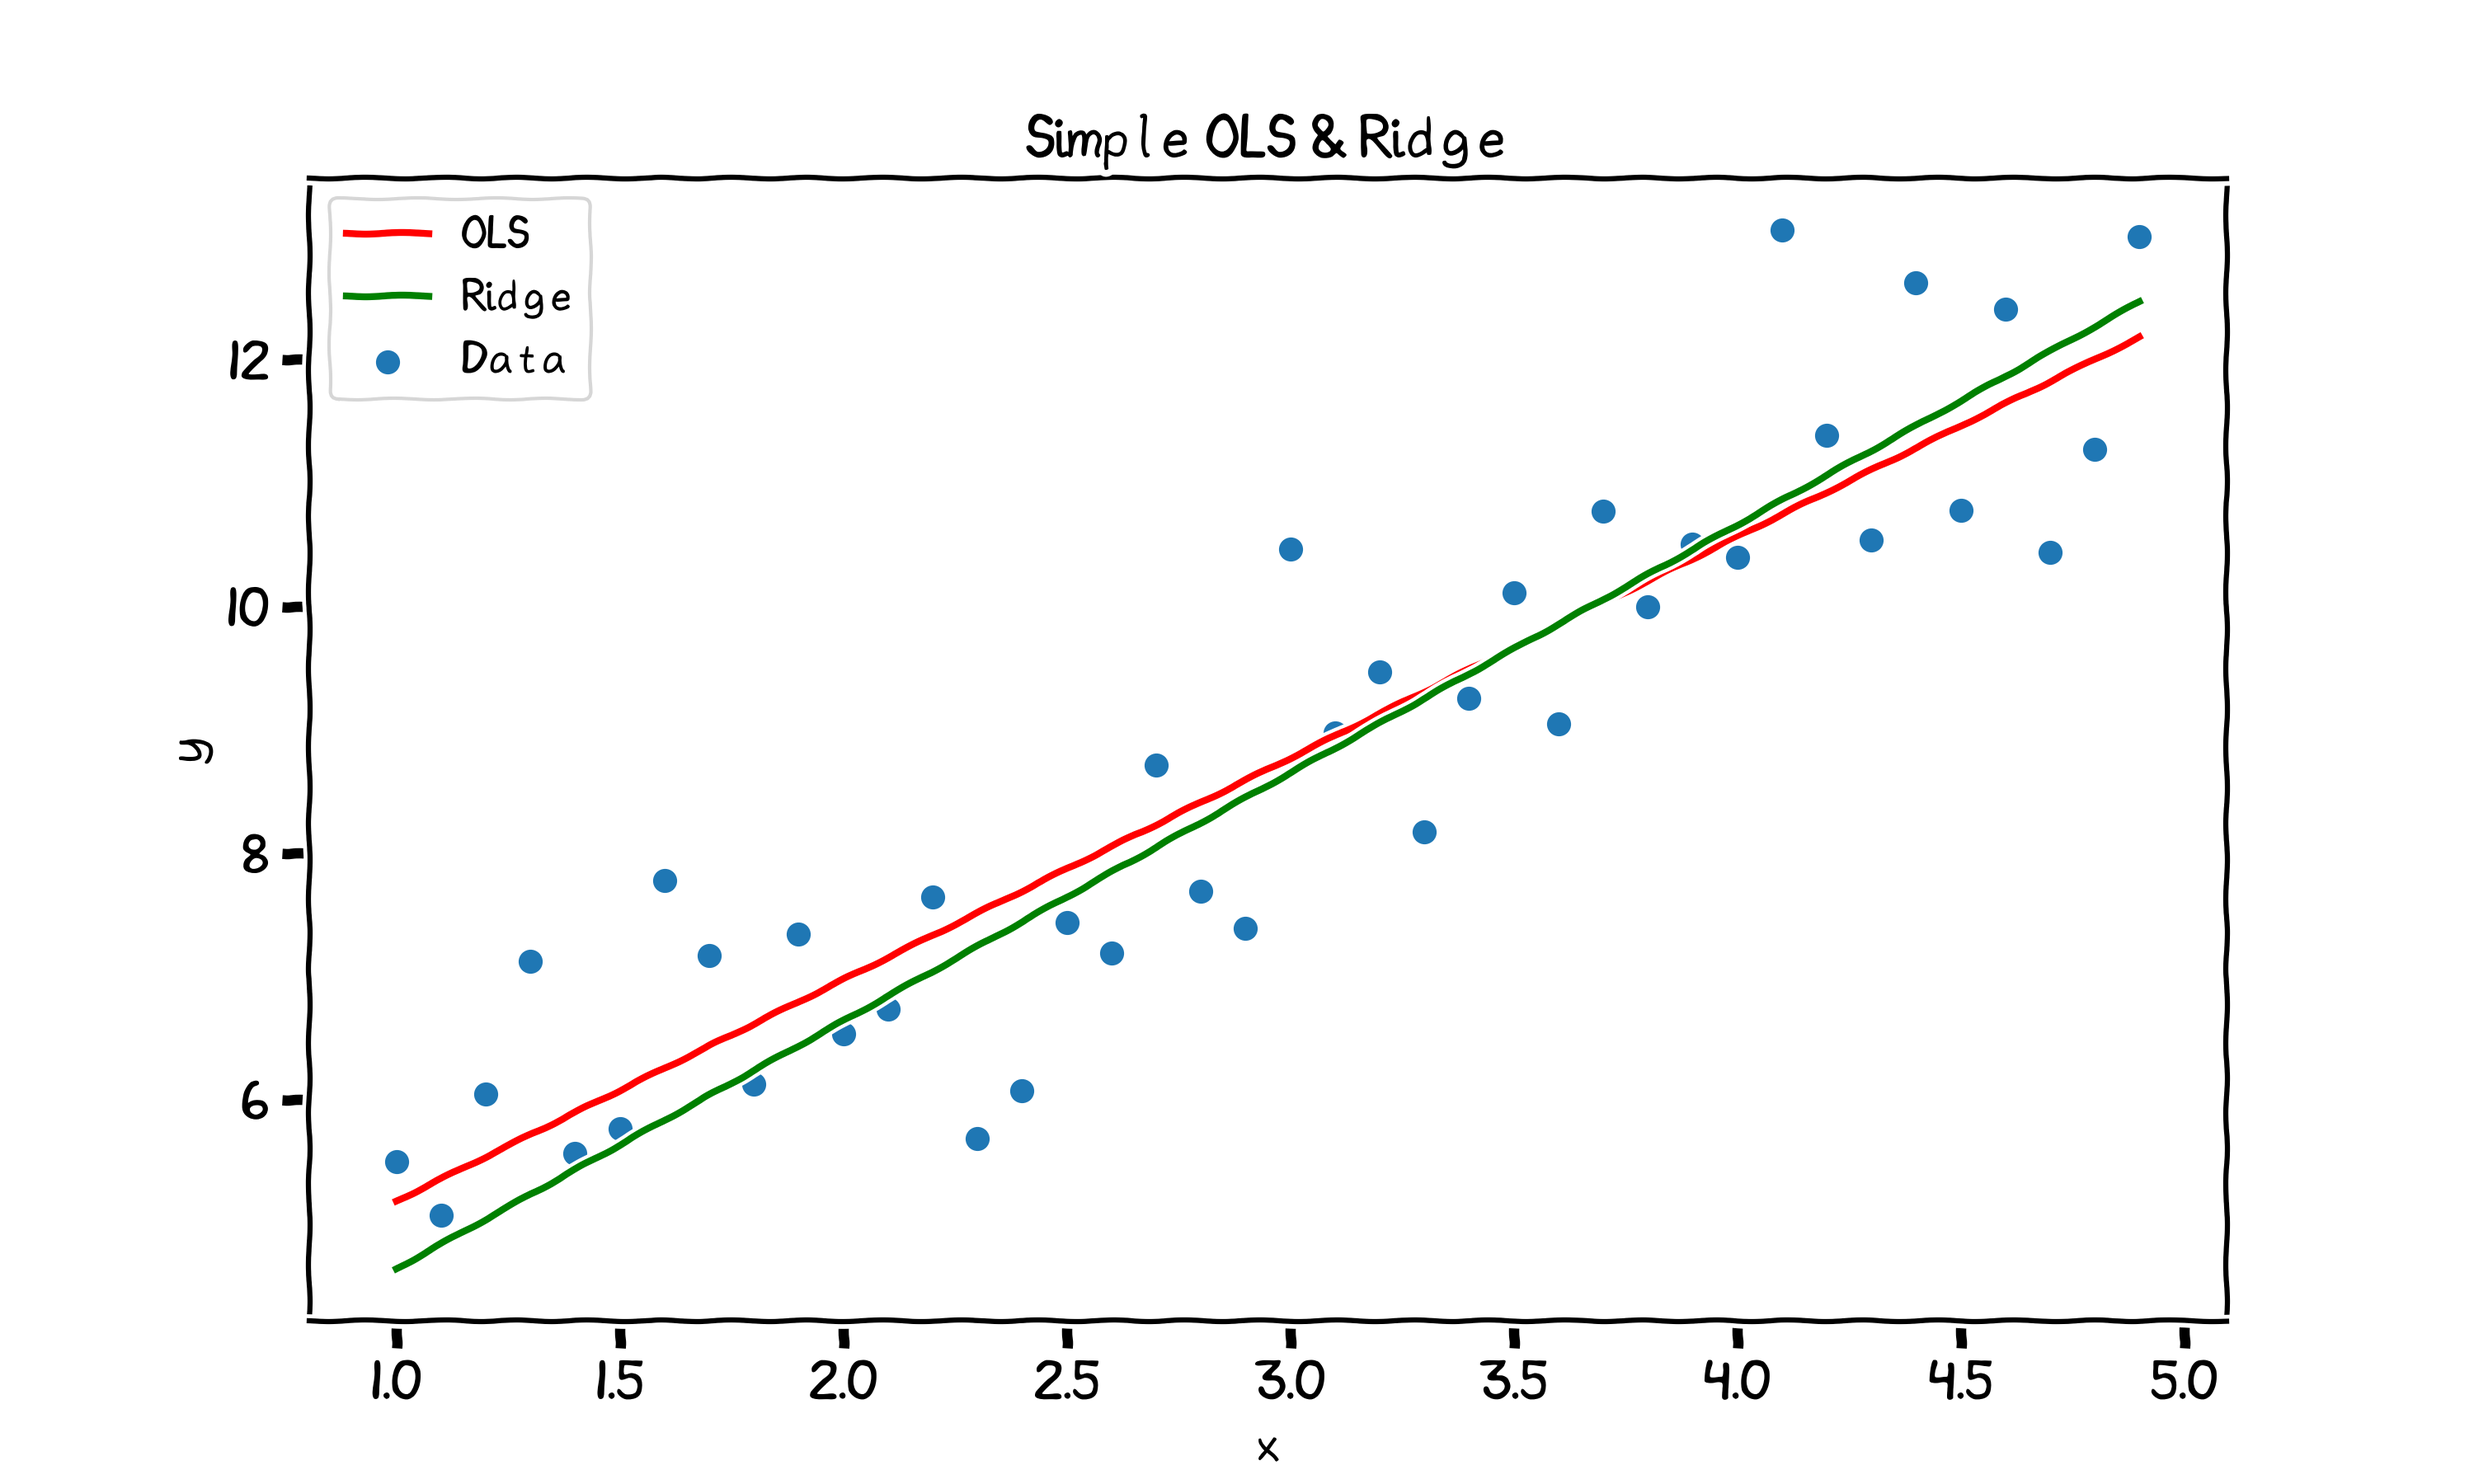
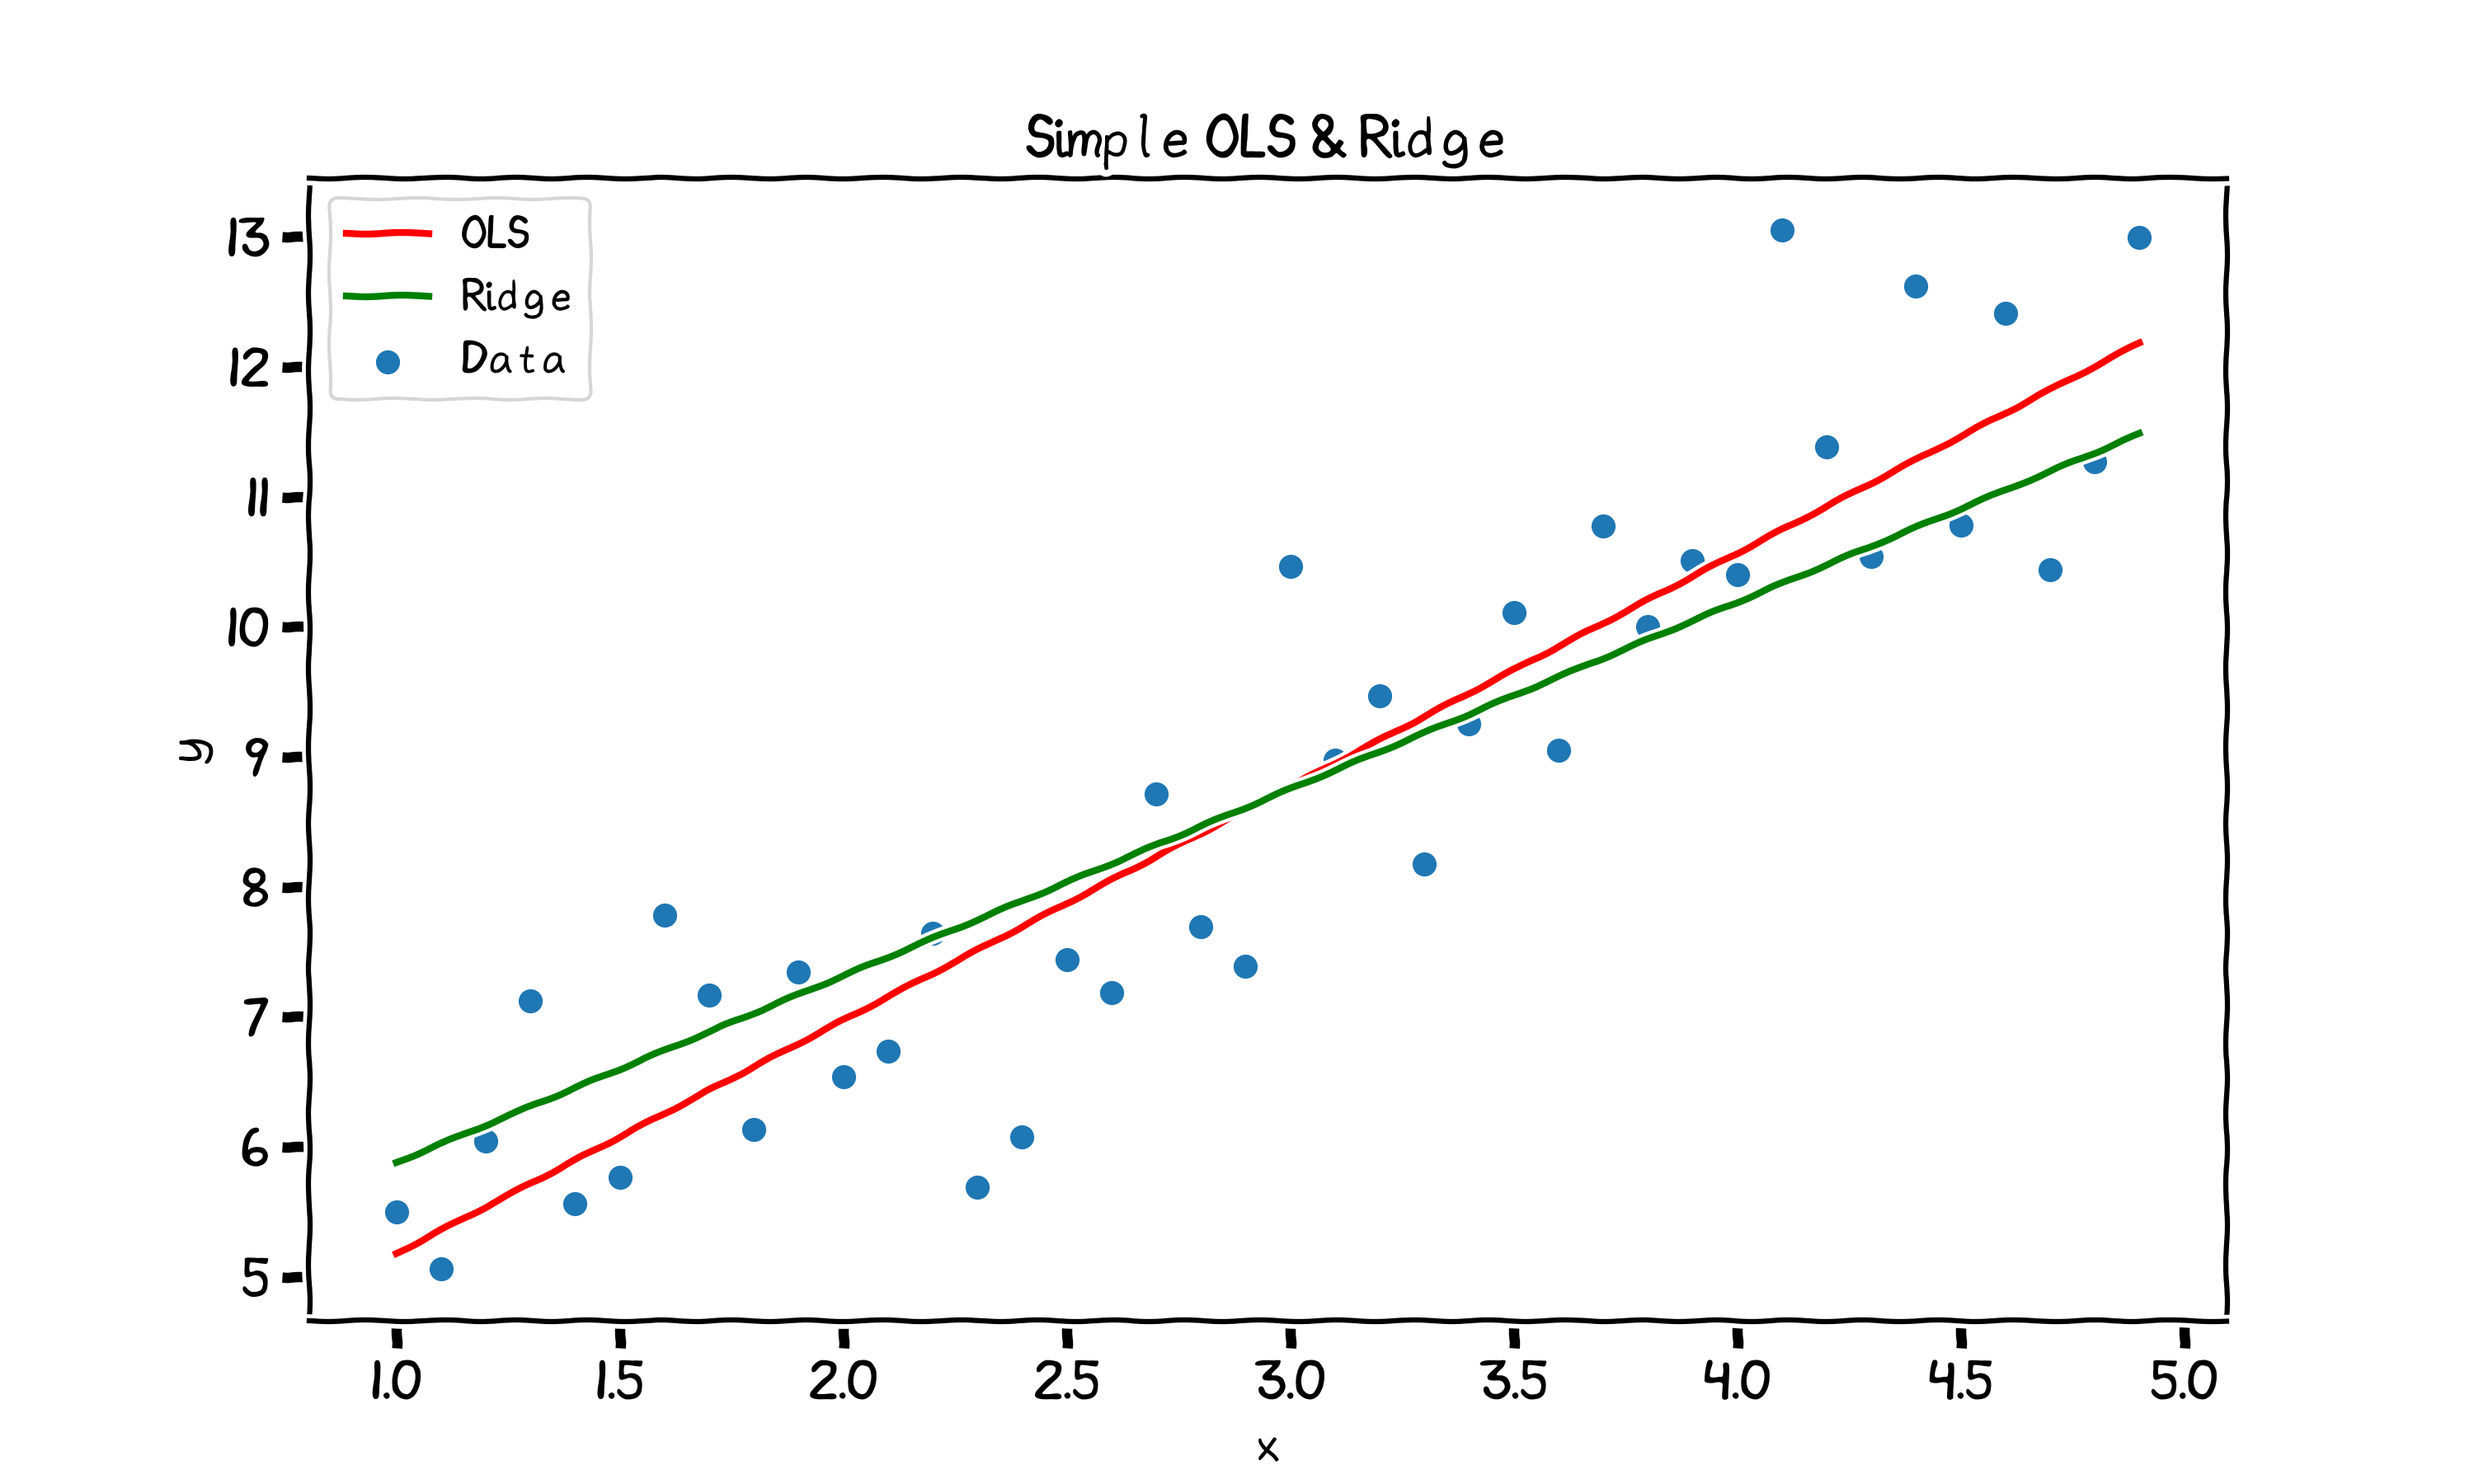
Python Ridge Complete

diff --git a/chap3/python/05_ridge.py b/chap3/python/05_ridge.py
@@ -15,14 +15,14 @@ def main():
     y = 2 * x + 3 + err
 
     X = np.matrix(x).T
-    X = sm.add_constant(X)
+    Xb = sm.add_constant(X)
     Y = np.matrix(y).T
 
-    ols = OLSEstimator(X, Y)
+    ols = OLSEstimator(Xb, Y)
     ols.estimate()
     ols.test()
 
-    ridge = OLSEstimator(X, Y, 2)
+    ridge = RidgeReg(X, Y, 10)
     ridge.estimate()
     ridge.test()
 
@@ -30,7 +30,8 @@ def main():
     ols.summary()
 
     print()
-    print("Ridge: ")
+
+    print("RIDGE: ")
     ridge.summary()
 
     with plt.xkcd():
@@ -43,69 +44,61 @@ def main():
         # Plot with Legends
         plt.scatter(x, y, label='Data')
         plt.plot(x, np.asarray(ols.y_hat).ravel(), 'r', label='OLS')
-        plt.plot(x, np.asarray(ridge.y_hat).ravel(), 'g', label='Ridge')
+        plt.plot(x, np.asarray(ridge.true_y_hat).ravel(), 'g', label='Ridge')
 
         # Other options
         plt.legend(fontsize=12)
 
     plt.savefig("ols_ridge.png", dpi=300)
 
-    # Prepare Data to Plot
-    x1 = np.arange(1, 5, 0.1)
-    x2 = x1**2
-    err = np.random.rand(len(x1))
-    y = 2 * x2 + 3 * x1 + 5 + 5 * err
+    print()
 
-    X1 = np.matrix(np.column_stack((x1, x2)))
-    X1 = sm.add_constant(X1)
-    X2 = np.matrix(x1).T
-    X2 = sm.add_constant(X2)
+    # ==============================================================================
+    # Gaussian Basis
+    # ==============================================================================
+    x = np.arange(0, np.math.pi, 0.05)
+    err = np.random.randn(len(x))
+    y = np.sin(x) + (x / 3) ** 2 + 0.1 * err
+
+    #X = np.matrix(np.column_stack((phi(0, 5, x), phi(1, 5, x), phi(2, 5, x), phi(3, 5, x))))
+    X = np.matrix(np.column_stack([phi(j/10, 5, x) for j in range(0, 30)]))
+    Xb = sm.add_constant(X)
     Y = np.matrix(y).T
 
-    ols_1 = OLSEstimator(X1, Y)
-    ols_2 = OLSEstimator(X2, Y)
-    ridge_1 = OLSEstimator(X1, Y, 2)
+    ols = OLSEstimator(Xb, Y)
+    ols.estimate()
+    ols.test()
 
-    ols_1.estimate()
-    ols_2.estimate()
-    ridge_1.estimate()
-    ols_1.test()
-    ols_2.test()
-    ridge_1.test()
+    ridge = RidgeReg(X, Y, 1)
+    ridge.estimate()
+    ridge.test()
 
-    print()
-    print("OLS1: ")
-    ols_1.summary()
+    print("OLS: ")
+    ols.summary()
 
     print()
-    print("OLS2: ")
-    ols_2.summary()
 
-    print()
-    print("Ridge1: ")
-    ridge_1.summary()
-
-    f = ols_1.f_test(ols_2)
-    print()
-    print("F-Test: ", f)
+    print("RIDGE: ")
+    ridge.summary()
 
     with plt.xkcd():
         # Prepare Plot
         plt.figure(figsize=(10,6), dpi=300)
-        plt.title(r"Two OLS and One Ridge", fontsize=16)
+        plt.title(r"Gaussian OLS & Ridge", fontsize=16)
         plt.xlabel(r'x', fontsize=14)
         plt.ylabel(r'y', fontsize=14)
 
         # Plot with Legends
-        plt.scatter(x1, y, label='Data')
-        plt.plot(x1, np.asarray(ols_1.y_hat).ravel(), 'r', alpha=0.7, label='OLS1')
-        plt.plot(x1, np.asarray(ols_2.y_hat).ravel(), 'g', alpha=0.7, label='OLS2')
-        plt.plot(x1, np.asarray(ridge_1.y_hat).ravel(), 'b', alpha=0.7, label='Ridge1')
+        plt.scatter(x, y, label='Data')
+        plt.plot(x, np.asarray(ols.y_hat).ravel(), 'r', label='OLS')
+        plt.plot(x, np.asarray(ridge.true_y_hat).ravel(), 'g', label='Ridge')
 
         # Other options
         plt.legend(fontsize=12)
 
-    plt.savefig("two_ols_one_ridge.png", dpi=300)
+    plt.savefig("gaussian_ols_ridge.png", dpi=300)
+
+
 
 # ==============================================================================
 # Estimate
@@ -114,13 +107,14 @@ def find_beta_hat(X, y, lam=0): # X should be np.matrix
     if lam == 0:
         return np.linalg.pinv(X) * y
     else:
-        u, s, vt = np.linalg.svd(X, full_matrices=False)
+        svd = np.linalg.svd(X, full_matrices=False)
+        u, s, vt = svd
         u = np.matrix(u)
         vt = np.matrix(vt)
         s_star = np.matrix(np.diag(s / (s ** 2 + lam)))
-        return vt.T * s_star * u.T * y
+        return (vt.T * s_star * u.T * y, svd)
 
-def find_y_hat(X, beta, y):
+def find_y_hat(X, beta):
     return X * beta
 
 # ==============================================================================
@@ -146,27 +140,42 @@ def calc_p_value(d, z):
         return 1
 
 # ==============================================================================
+# Scaling
+# ==============================================================================
+def standardize(x):
+    return (x - x.mean(axis=0)) / x.std(axis=0)
+
+def center(y):
+    return y - y.mean(axis=0)
+
+# ==============================================================================
+# Basis Function
+# ==============================================================================
+def phi(j, s, x):
+    return np.exp(-(x - j) ** 2 / s)
+
+# ==============================================================================
 # OOP Implementation
 # ==============================================================================
 class OLSEstimator:
-    def __init__(self, X, Y, lam=0):
+    def __init__(self, X, Y):
         self.X = X
         self.Y = Y
-        self.lam = lam
     
     def estimate(self):
-        self.beta_hat = find_beta_hat(self.X, self.Y, self.lam)
-        self.y_hat = find_y_hat(self.X, self.beta_hat, self.Y)
+        self.beta_hat = find_beta_hat(self.X, self.Y)
+        self.y_hat = find_y_hat(self.X, self.beta_hat)
     
     def test(self):
         self.N = self.Y.shape[0]
         self.p = self.X.shape[1]-1
+        self.nu = self.N - self.p - 1
 
         self.sigma_hat = find_sigma_hat(np.asarray(self.Y).ravel(), np.asarray(self.y_hat).ravel(), self.p)
         self.t_score = calc_t_score(np.asarray(self.beta_hat).ravel(), self.X, self.sigma_hat)
         self.rss = calc_rss(np.asarray(self.Y).ravel(), np.asarray(self.y_hat).ravel())
         
-        t_dist = ss.t(df=self.N-self.p-1)
+        t_dist = ss.t(df=self.nu)
 
         p_fun = lambda t: calc_p_value(t_dist, t)
         p_fun = np.vectorize(p_fun)
@@ -197,6 +206,39 @@ class OLSEstimator:
         p_value = calc_p_value(f_dist, f_score)
 
         return (f_score, p_value)
+
+class RidgeReg(OLSEstimator):
+    def __init__(self, X, Y, lam):
+        self.X = standardize(X)
+        self.Y = center(Y)
+        self.beta_0 = np.mean(Y)
+        self.lam = lam
+
+    def estimate(self):
+        self.beta_hat, self.svd = find_beta_hat(self.X, self.Y, self.lam)
+        self.y_hat = find_y_hat(self.X, self.beta_hat)
+        self.true_y_hat = self.y_hat + self.beta_0
+
+    def test(self):
+        self.N = self.Y.shape[0]
+        self.p = self.X.shape[1]
+        (u, s, vt) = self.svd
+        s_star = np.matrix(np.diag(s / (s ** 2 + self.lam)))
+        
+        self.nu = self.N - self.p + np.sum((self.lam / (s ** 2 + self.lam)) ** 2)
+        self.rss = calc_rss(np.asarray(self.Y).ravel(), np.asarray(self.y_hat).ravel())
+        
+        self.sigma_hat = self.rss / self.nu
+        v = np.asarray((vt.T * s_star ** 2 * vt).diagonal()).ravel()
+        self.t_score = np.asarray(self.beta_hat).ravel() / np.sqrt(self.sigma_hat * v)
+        
+        t_dist = ss.t(df=self.nu)
+
+        p_fun = lambda t: calc_p_value(t_dist, t)
+        p_fun = np.vectorize(p_fun)
+
+        self.p_value = p_fun(self.t_score)
+
 
 if __name__ == "__main__":
     main()
